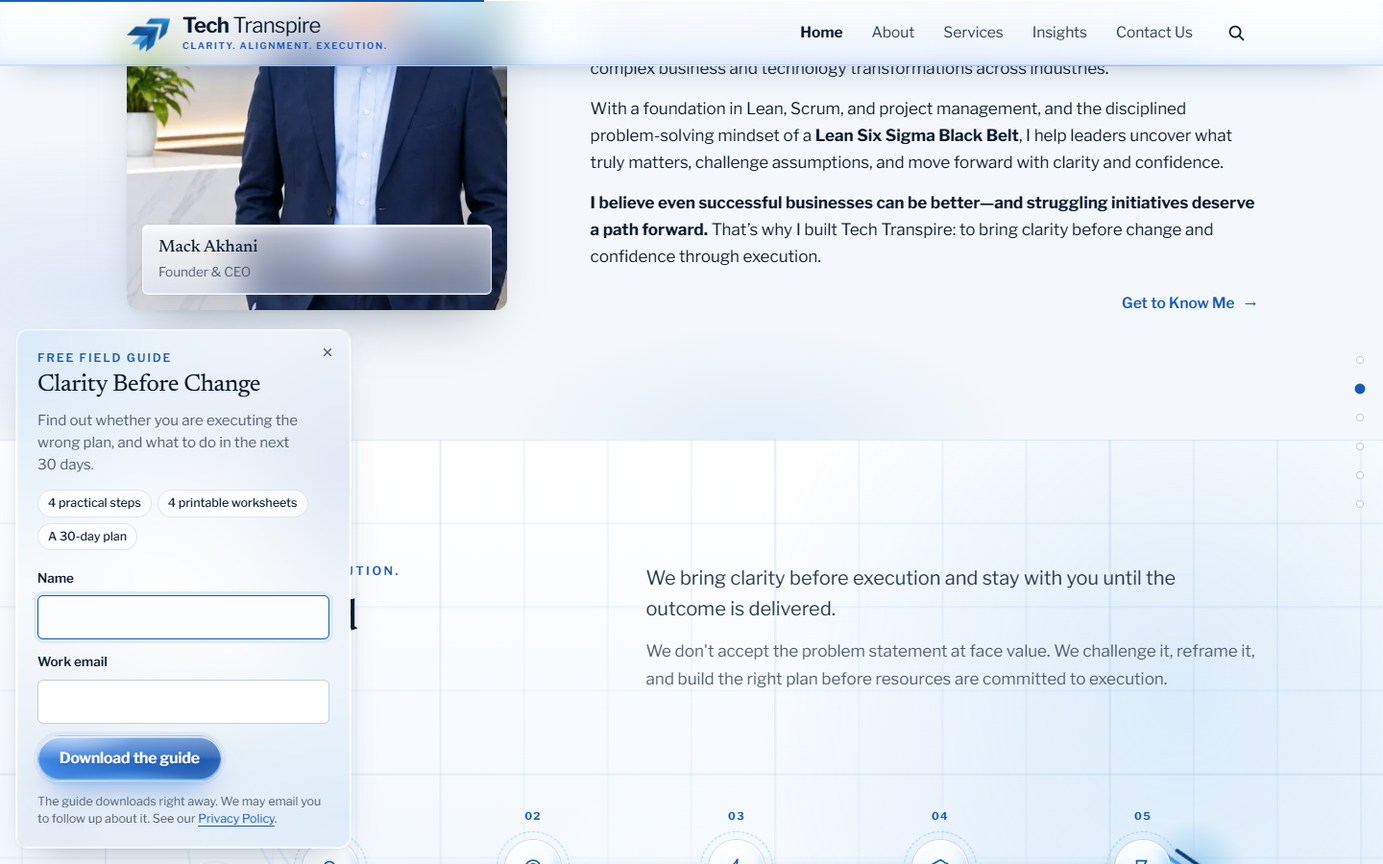
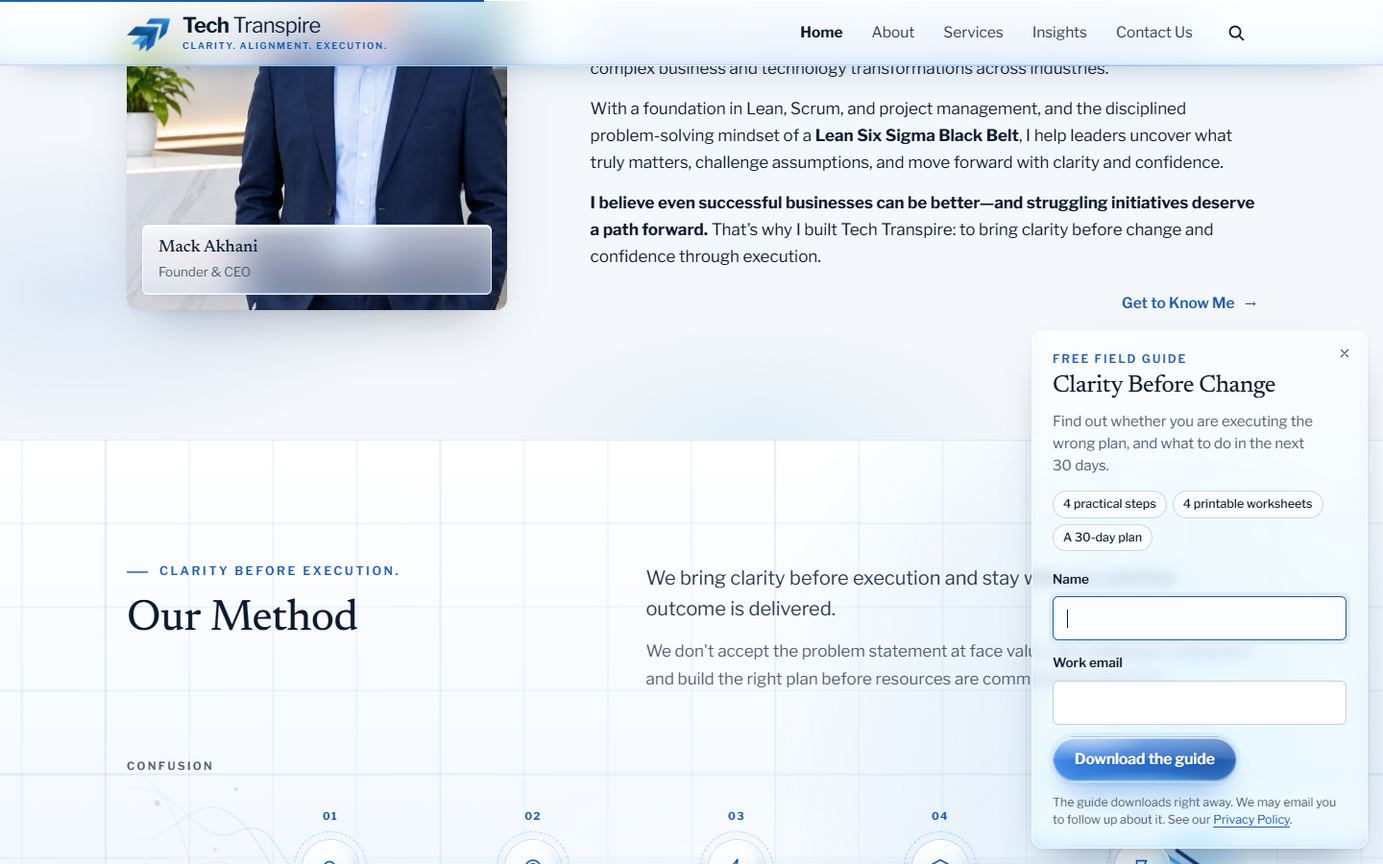
Guide card: transparent glass, bottom-right placement, attention nudge (D-56)
The WebGL engine can only refract a picture it draws, so the card read as
a solid panel. It is now real glass over the live page (backdrop blur,
SVG rim refraction in Chromium) whose tone adapts to light, photo and
navy backgrounds to keep text at WCAG AA. Moved to the chat-launcher
corner with a short shake-and-ring nudge that stops once noticed.

diff --git a/site/src/scripts/guide.ts b/site/src/scripts/guide.ts
@@ -1,9 +1,8 @@
 // Field-guide tab, card and lead form (D-56; markup and styles in components/GuidePrompt.astro).
 // Re-wired on every page load, including client-side navigations, and torn down before each swap.
 
-type Glass = { pause(): void; resume(): void; refresh(): void; destroy(): void };
-type Engine = { create(canvas: HTMLCanvasElement, options: object): Glass | null };
 type State = 'tab' | 'open' | 'done';
+type Tone = 'clear' | 'dense' | 'dark';
 
 const DONE_KEY = 'tt:guide:done';
 const DISMISSED_KEY = 'tt:guide:dismissed';
@@ -18,6 +17,12 @@ const MAX_SHOWS = 3;
 const SCROLL_SHARE = 0.3;
 const WAIT_MS = 20_000;
 const RETRY_MS = 1500;
+/** Attention nudges: the first soon after the tab arrives, then a few more, until the visitor reacts. */
+const NUDGE_FIRST_MS = 700;
+const NUDGE_GAP_MS = 8000;
+const NUDGES = 4;
+/** Width of the refracting rim, in CSS px. */
+const RIM = 16;
 // Loose on purpose: the browser's own email check runs too, and the Apps Script has the final say.
 const EMAIL = /^[^\s@]+@[^\s@]+\.[^\s@]{2,}$/;
 
@@ -28,6 +33,10 @@ const store = (area: () => Storage) => ({
 });
 const local = store(() => window.localStorage);
 const session = store(() => window.sessionStorage);
+
+// backdrop-filter: url() (SVG refraction of the live page) works in Chromium only; elsewhere the
+// card keeps the plain blurred glass. Only Chromium exposes navigator.userAgentData.
+const canRefract = () => !!(navigator as Navigator & { userAgentData?: { brands?: { brand: string }[] } }).userAgentData?.brands?.some((b) => b.brand === 'Chromium');
 
 let page: AbortController | null = null;
 document.addEventListener('astro:page-load', init);
@@ -58,85 +67,162 @@ function init() {
   let visible = false;
   let returnTo: HTMLElement | null = null;
   let timer = 0;
-  signal.addEventListener('abort', () => window.clearTimeout(timer));
+  signal.addEventListener('abort', () => {
+    window.clearTimeout(timer);
+    document.documentElement.classList.remove('guide-open');
+  });
 
-  // ---- Liquid glass, loaded the first time the card opens ----
-  let glass: Glass | null = null;
-  let glassAsked = false;
-  signal.addEventListener('abort', () => glass?.destroy());
-
-  /** What the glass refracts: a near-white field lit by the site's blues, from its own tokens. */
-  const backdrop = () => {
-    const css = getComputedStyle(document.documentElement);
-    const rgb = (token: string) => {
-      const hex = css.getPropertyValue(token).trim().replace('#', '');
-      return [0, 2, 4].map((i) => parseInt(hex.slice(i, i + 2), 16)).join(',');
-    };
-    const c = document.createElement('canvas');
-    c.width = 700;
-    c.height = 1000;
-    const g = c.getContext('2d');
-    if (!g) return null;
-    g.fillStyle = `rgb(${rgb('--mist')})`;
-    g.fillRect(0, 0, c.width, c.height);
-    const glow = (x: number, y: number, r: number, color: string, alpha: number) => {
-      const grad = g.createRadialGradient(x, y, 0, x, y, r);
-      grad.addColorStop(0, `rgba(${color},${alpha})`);
-      grad.addColorStop(1, `rgba(${color},0)`);
-      g.fillStyle = grad;
-      g.fillRect(0, 0, c.width, c.height);
-    };
-    glow(60, 40, 460, rgb('--sky'), 0.22);
-    glow(660, 260, 420, rgb('--blue'), 0.14);
-    glow(120, 960, 480, rgb('--blue'), 0.12);
-    glow(640, 940, 420, rgb('--sky'), 0.2);
-    glow(350, 500, 340, '255,255,255', 0.8);
-    return c;
+  // ---- Glass: tone from what is behind the card ----
+  const lum = (r: number, g: number, b: number) => {
+    const lin = (v: number) => { v /= 255; return v <= 0.03928 ? v / 12.92 : ((v + 0.055) / 1.055) ** 2.4; };
+    return 0.2126 * lin(r) + 0.7152 * lin(g) + 0.0722 * lin(b);
   };
-
-  const startGlass = async () => {
-    if (glassAsked) return;
-    glassAsked = true;
-    const canvas = card.querySelector<HTMLCanvasElement>('.gd-glass');
-    const bg = backdrop();
-    if (!canvas || !bg) return;
-    try {
-      const mod = (await import('../vendor/liquid-glass.js')) as { default?: Engine };
-      if (signal.aborted) return;
-      const engine = mod.default?.create ? mod.default : (globalThis as { LiquidGlass?: Engine }).LiquidGlass;
-      // The canvas needs a size before the engine can draw; CSS takes over once it binds the card.
-      canvas.style.display = 'block';
-      glass = engine?.create(canvas, {
-        background: bg,
-        backgroundColor: getComputedStyle(document.documentElement).getPropertyValue('--mist').trim(),
-        preset: 'frosted',
-        maxDpr: 1.5,
-        params: {
-          thickness: 18, refraction: 0.05, dispersion: 8, blur: 6, tint: [255, 255, 255, 0.35],
-          fresnelStrength: 28, glareStrength: 70, glareAngle: -45, shadowStrength: 0,
-        },
-        shapes: [{ element: card, radius: 'auto' }],
-        onError: () => {},
-      }) ?? null;
-      canvas.style.removeProperty('display');
-      if (!visible || card.dataset.state === 'tab') glass?.pause();
-    } catch {
-      canvas.style.removeProperty('display');
+  const rgba = /rgba?\(([\d.]+),\s*([\d.]+),\s*([\d.]+)(?:,\s*([\d.]+))?\)/g;
+  /** Luminance of an element's own painted background (colour or gradient), or null if see-through. */
+  const paint = (el: Element): number | null => {
+    const cs = getComputedStyle(el);
+    const solid = [...cs.backgroundColor.matchAll(rgba)][0];
+    if (solid && Number(solid[4] ?? 1) >= 0.5) return lum(+solid[1], +solid[2], +solid[3]);
+    if (cs.backgroundImage.includes('gradient')) {
+      const stops = [...cs.backgroundImage.matchAll(rgba)].filter((m) => Number(m[4] ?? 1) >= 0.5);
+      if (stops.length) return stops.reduce((sum, m) => sum + lum(+m[1], +m[2], +m[3]), 0) / stops.length;
     }
+    return null;
   };
+  const measureTone = (): Tone => {
+    const r = card.getBoundingClientRect();
+    const cols = 4;
+    const rows = Math.max(2, Math.round(r.height / 56));
+    let dark = 0, busy = 0, total = 0;
+    for (let i = 0; i < cols; i++) for (let j = 0; j < rows; j++) {
+      const x = r.left + 8 + ((r.width - 16) * i) / (cols - 1);
+      const y = r.top + 8 + ((r.height - 16) * j) / (rows - 1);
+      // Down through everything painted at this point (overlays included) to the first photo,
+      // canvas or opaque background; the page itself is white.
+      let L: number | null = null;
+      let media = false;
+      for (const el of document.elementsFromPoint(x, y)) {
+        if (card.contains(el)) continue;
+        if (el.matches('img, picture, video, canvas')) { media = true; break; }
+        if ((L = paint(el)) !== null) break;
+      }
+      total++;
+      if (media) { busy++; continue; }
+      L ??= 1;
+      if (L < 0.2) dark++;
+      else if (L < 0.6) busy++;
+    }
+    if (total && dark * 2 >= total) return 'dark';
+    return dark || busy ? 'dense' : 'clear';
+  };
+  let toneFrame = 0;
+  const updateTone = () => {
+    if (toneFrame || !visible) return;
+    toneFrame = requestAnimationFrame(() => { toneFrame = 0; if (visible) card.dataset.tone = measureTone(); });
+  };
+  window.addEventListener('scroll', updateTone, { passive: true, signal });
+  window.addEventListener('resize', updateTone, { signal });
+  signal.addEventListener('abort', () => cancelAnimationFrame(toneFrame));
 
+  // ---- Glass: refraction map drawn to the card's real shape (Chromium) ----
+  const filter = document.getElementById('gd-refract');
+  const mapImage = filter?.querySelector<SVGFEImageElement>('[data-guide-map]');
+  /** Displacement map: neutral inside, pulling the backdrop inward across the rim, like a lens edge. */
+  const drawMap = (w: number, h: number, radius: number) => {
+    const c = document.createElement('canvas');
+    c.width = w;
+    c.height = h;
+    const g = c.getContext('2d');
+    if (!g) return '';
+    const img = g.createImageData(w, h);
+    const d = img.data;
+    const r = Math.min(radius, w / 2, h / 2);
+    for (let y = 0; y < h; y++) {
+      for (let x = 0; x < w; x++) {
+        const px = x + 0.5 - w / 2;
+        const py = y + 0.5 - h / 2;
+        const qx = Math.abs(px) - (w / 2 - r);
+        const qy = Math.abs(py) - (h / 2 - r);
+        const ox = Math.max(qx, 0);
+        const oy = Math.max(qy, 0);
+        const out = Math.hypot(ox, oy);
+        const depth = r - out - Math.min(Math.max(qx, qy), 0);
+        let dx = 0, dy = 0;
+        if (depth > 0 && depth < RIM) {
+          let nx: number, ny: number;
+          if (out > 0) { nx = (ox / out) * Math.sign(px); ny = (oy / out) * Math.sign(py); }
+          else if (qx > qy) { nx = Math.sign(px); ny = 0; }
+          else { nx = 0; ny = Math.sign(py); }
+          const k = (1 - depth / RIM) ** 2;
+          dx = -nx * k;
+          dy = -ny * k;
+        }
+        const i = (y * w + x) * 4;
+        d[i] = 128 + dx * 127;
+        d[i + 1] = 128 + dy * 127;
+        d[i + 2] = 128;
+        d[i + 3] = 255;
+      }
+    }
+    g.putImageData(img, 0, 0);
+    return c.toDataURL();
+  };
+  if (filter && mapImage && canRefract()) {
+    let size = '';
+    const fit = () => {
+      const r = card.getBoundingClientRect();
+      const w = Math.round(r.width);
+      const h = Math.round(r.height);
+      if (!w || !h || `${w}x${h}` === size) return;
+      size = `${w}x${h}`;
+      const radius = parseFloat(getComputedStyle(card).borderTopLeftRadius) || 0;
+      for (const el of [filter, mapImage]) { el.setAttribute('width', String(w)); el.setAttribute('height', String(h)); }
+      mapImage.setAttribute('href', drawMap(w, h, radius));
+      card.classList.add('gd-refract');
+    };
+    const ro = new ResizeObserver(fit);
+    ro.observe(card);
+    signal.addEventListener('abort', () => ro.disconnect());
+  }
+
+  // ---- Getting noticed ----
+  let nudgeTimer = 0;
+  let nudgesLeft = 0;
+  const nudge = () => {
+    if (!nudgesLeft || !visible || card.dataset.state !== 'tab') return;
+    nudgesLeft--;
+    card.removeAttribute('data-nudge');
+    void card.offsetWidth; // restart the animation
+    card.setAttribute('data-nudge', '');
+    if (nudgesLeft) nudgeTimer = window.setTimeout(nudge, NUDGE_GAP_MS);
+  };
+  const startAttention = (count: number) => {
+    nudgesLeft = count;
+    card.dataset.attention = '';
+    window.clearTimeout(nudgeTimer);
+    nudgeTimer = window.setTimeout(nudge, NUDGE_FIRST_MS);
+  };
+  const stopAttention = () => {
+    nudgesLeft = 0;
+    window.clearTimeout(nudgeTimer);
+    delete card.dataset.attention;
+    card.removeAttribute('data-nudge');
+  };
+  card.addEventListener('animationend', (e) => { if (e.target === card && e.animationName.includes('gd-ring')) card.removeAttribute('data-nudge'); }, { signal });
+  // Any sign the visitor has seen it ends the nudging for this page.
+  card.addEventListener('pointerenter', stopAttention, { signal });
+  card.addEventListener('focusin', stopAttention, { signal });
+  signal.addEventListener('abort', () => window.clearTimeout(nudgeTimer));
+
+  // ---- States ----
   const setState = (state: State) => {
     card.dataset.state = state;
     const open = state !== 'tab';
     body.hidden = !open;
     tab.setAttribute('aria-expanded', String(open));
-    if (open) {
-      void startGlass();
-      glass?.resume();
-      glass?.refresh();
-    } else {
-      glass?.pause();
-    }
+    document.documentElement.classList.toggle('guide-open', open && visible);
+    if (open) stopAttention();
+    updateTone();
   };
 
   const show = (state: Exclude<State, 'done'>) => {
@@ -144,7 +230,8 @@ function init() {
     if (visible) return;
     visible = true;
     card.hidden = false;
-    if (card.dataset.state !== 'tab') glass?.resume();
+    document.documentElement.classList.toggle('guide-open', card.dataset.state !== 'tab');
+    card.dataset.tone = measureTone();
     // Next frame, so the entrance runs from the hidden state.
     requestAnimationFrame(() => requestAnimationFrame(() => card.classList.add('is-in')));
   };
@@ -152,9 +239,11 @@ function init() {
   const hide = (remember: boolean) => {
     if (!visible) return;
     visible = false;
+    stopAttention();
+    document.documentElement.classList.remove('guide-open');
     const hadFocus = card.contains(document.activeElement);
     card.classList.remove('is-in');
-    window.setTimeout(() => { if (!visible) { card.hidden = true; glass?.pause(); } }, reduce() ? 0 : 260);
+    window.setTimeout(() => { if (!visible) card.hidden = true; }, reduce() ? 0 : 260);
     if (remember) local.set(DISMISSED_KEY, String(Date.now()));
     const back = returnTo;
     returnTo = null;
@@ -262,8 +351,9 @@ function init() {
   const allowed = card.dataset.quiet === undefined && !num(DONE_KEY) && loadedAt - num(DISMISSED_KEY) > QUIET_MS;
   if (!allowed) return;
 
-  // Already offered earlier in this session: keep the tab, without counting another appearance.
-  if (session.get(SESSION_KEY)) { show('tab'); return; }
+  // Already offered earlier in this session: keep the tab without counting another appearance,
+  // and nudge once.
+  if (session.get(SESSION_KEY)) { show('tab'); startAttention(1); return; }
   if (shows().length >= MAX_SHOWS) return;
 
   let offered = false;
@@ -276,6 +366,7 @@ function init() {
     local.set(SHOWN_KEY, JSON.stringify([...shows(), Date.now()]));
     session.set(SESSION_KEY, '1');
     show('tab');
+    startAttention(NUDGES);
   };
   window.addEventListener('scroll', () => {
     const room = document.documentElement.scrollHeight - window.innerHeight;

diff --git a/docs/website-architecture/12-gaps-and-decisions.md b/docs/website-architecture/12-gaps-and-decisions.md
@@ -138,7 +138,7 @@ Drafts are in [`drafts/`](drafts/).
 | **D-53** | Motto in header and footer (2026-11-01) | ✅ The company | "Clarity. Alignment. Execution." sits under the header logo on every page and is the footer brand line (it replaces "Clarity Before Change. Confidence Through Execution." in the footer; that line remains the Home hero headline). Briefly tried the positioning line in the header; the company asked for the motto there too |
 | **D-54** | All ten insights published (2026-11-05) | ✅ Mack Akhani (relayed by Hemang Dwivedi) | Mack verified the engagement figures in the held articles. Every AC-xx claim in [19](19-article-claims-report.md) plus C-08, C-09 and C-14 is marked verified in `site/src/data/publication.json`, so TT-INS-001–005, 007, 009 and 010 publish alongside 006 and 008, and `/insights/case-studies` is built. E-09 is retired: the C-14 sentence "Twelve other programs subsequently replicated it." is restored in TT-INS-003 (closes D-24). Not covered: the Home "Selected Experience" figures (C-02–C-07) and the pre-founding attribution of 007–010 (C-18) remain pending |
 | **D-55** | Contact form spam protection: honeypot + time trap (2026-11-18) | ✅ Hemang Dwivedi | Mirrors the TLS site (trueleansolutions.com, "TLS CONTACT FORM" Apps Script Version 6). **Site:** honeypot `website` (off-screen, `tabindex=-1`, `autocomplete=off`, `aria-hidden`, label "Leave this field empty"); hidden `form_ts` = page-load ms; `submitted` = ISO time at send; a filled honeypot shows the normal success and sends nothing. `startedAt` is still sent until Apps Script Version 5 is live. **Server** (`apps-script/contact-form.gs` Version 5, mirrored by `spamCheck` in `site/src/server/inquiry.ts`): spam is checked first, in order honeypot → `form_ts_missing`/`form_ts_invalid` (10–15 digits) → `submitted_missing`/`submitted_invalid` → `too_fast` (`submitted − form_ts` < 3 s, both from the visitor's clock, so skew-safe) → `too_old` (server now − `form_ts` > 8 days). A rejected post gets the same `{ ok: true }`, sends no email, never writes "Website Inquiries" and is not counted by the 20-per-10-minute rate limit; it is logged to the **Rejected_TT** tab (not "Rejected", which the TLS script uses in the same spreadsheet). `LOG_REJECTED_IN_FULL = true` for two weeks (to about 2026-12-02), then false (time, reason, form only). Every sheet value goes through `safeCell_` (formula prefix, 45,000-character cap). Replaces the old timing check, which compared the server clock with the visitor's and skipped the check entirely when `startedAt` was missing. Known trade-off: visitors without JavaScript send no timestamps and are rejected (visible in Rejected_TT). Rollout: site first, then edit the existing deployment to a new version (never a new deployment, which changes the /exec URL) |
-| **D-56** | "Clarity Before Change" field-guide card (2026-11-24) | ✅ Hemang Dwivedi (build); ⏳ switch-on pending | A lead magnet ported in behavior (not look) from the TLS site's guide card. A one-line "Free field guide" tab bottom-left (after 30% scroll or 20 s; not on Contact, Privacy Policy, 404 or while typing; at most 3 times in 14 days; 14 days quiet after a dismissal; never after a download) opens a compact liquid-glass card: kicker, title linked to TT-INS-006, promise, three facts, Name + Work email. On submit the PDF downloads in the browser and the lead is posted fire-and-forget (URLSearchParams, honeypot, time trap) to `docs/apps-script/guide-leads.gs`, bound to "TLS LEADS From Website", tabs "TT Guide Leads" / "TT Guide Leads Rejected". No email is sent. **No consent checkbox** (Hemang): the line under the button is the disclosure, and the time it was shown is recorded; the Contact form keeps its checkbox. **Success-message rule:** "Your guide is downloading." is shown without server confirmation because it describes the local download, not the lead being saved; recorded as the second exception in CLAUDE.md. Copy is Hemang's (new content, not a change to existing content). Shipped **off**: `GUIDE_ENDPOINT` is empty and the designed PDF is not yet in the repo (the draft of 2026-11-23 has internal notes and is unformatted). **Before switch-on:** designed PDF in `site/public/guides/`; Mack's sign-off on the guide's "no obligation and no sales presentation" line and its illustrative example; a Privacy Policy clause for this collection; then deploy the script and set the URL ([guide-leads.md](../guide-leads.md)) |
+| **D-56** | "Clarity Before Change" field-guide card (2026-11-24) | ✅ Hemang Dwivedi (build); ⏳ switch-on pending | A lead magnet ported in behavior (not look) from the TLS site's guide card. A one-line "Free field guide" tab bottom-right, the usual chat-launcher spot (after 30% scroll or 20 s; not on Contact, Privacy Policy, 404 or while typing; at most 3 times in 14 days; 14 days quiet after a dismissal; never after a download) nudges with a short shake and soft ring (four times, 8 s apart, until hovered, focused or opened; a steady ring under reduced motion), and opens a compact card of transparent glass over the live page (backdrop blur, SVG rim refraction in Chromium; tone adapts to light, photo and navy backgrounds to keep AA): kicker, title linked to TT-INS-006, promise, three facts, Name + Work email. On submit the PDF downloads in the browser and the lead is posted fire-and-forget (URLSearchParams, honeypot, time trap) to `docs/apps-script/guide-leads.gs`, bound to "TLS LEADS From Website", tabs "TT Guide Leads" / "TT Guide Leads Rejected". No email is sent. **No consent checkbox** (Hemang): the line under the button is the disclosure, and the time it was shown is recorded; the Contact form keeps its checkbox. **Success-message rule:** "Your guide is downloading." is shown without server confirmation because it describes the local download, not the lead being saved; recorded as the second exception in CLAUDE.md. Copy is Hemang's (new content, not a change to existing content). **Revised 2026-11-24 (Hemang):** moved from bottom-left to bottom-right, attention nudge added, and the WebGL engine replaced by transparent CSS/SVG glass (the engine cannot refract the live page). The home section rail fades out while the card is open. Shipped **off**: `GUIDE_ENDPOINT` is empty and the designed PDF is not yet in the repo (the draft of 2026-11-23 has internal notes and is unformatted). **Before switch-on:** designed PDF in `site/public/guides/`; Mack's sign-off on the guide's "no obligation and no sales presentation" line and its illustrative example; a Privacy Policy clause for this collection; then deploy the script and set the URL ([guide-leads.md](../guide-leads.md)) |
 | D-23 | Keep `/about-us`, `/contact-us` | ✅ **Approved** | — |
 | D-24 | TT-INS-003 while C-14 is pending | ✅ **Approved** (2026-10-29) | Publish without the C-14 sentence once the rest of its content is approved (E-09); restore it on verification |
 | **D-25** | Articles containing unverified claims | ✅ **Revised 2026-10-29 (company correction)** | "Publish as authored" does **not** override the no-unverified-claims rule. Three states: preserved source (archive, untouched) · internal review (review build) · approved for publication (public build). An article publishes only when every claim listed for it in [19](19-article-claims-report.md) is verified or covered by an **approved** editorial omission; otherwise it is **held**. Today 8 of 10 are held (TT-INS-001–005, 007, 009, 010); TT-INS-006 and 008 publish. Same standard for bios, results, Healthcare, SEO metadata. Implemented in `site/src/data/publication.json` |

diff --git a/docs/guide-leads.md b/docs/guide-leads.md
@@ -14,18 +14,38 @@ The behavior is ported from the True Lean Solutions site (`True-Lean-Solutions/T
 | Tab, card and form | `site/src/components/GuidePrompt.astro` | Markup and styles. Rendered by `site/src/layouts/Base.astro` only while the guide is enabled |
 | Behavior | `site/src/scripts/guide.ts` | When the tab appears, the form, the download, the liquid glass. Re-wired on every page, including client-side navigations |
 | Footer link | `site/src/components/Footer.astro` | "Free field guide" in the legal bar opens the card on any page |
-| Glass engine | `site/src/vendor/liquid-glass.js` (v1.1.0, MIT, see `liquid-glass.LICENSE.txt`) | Draws the open card. Loaded only the first time the card opens |
+| Glass | `GuidePrompt.astro` (CSS and an SVG filter) and `scripts/guide.ts` | Transparent glass over the live page. See "The glass" below |
 | Script | `docs/apps-script/guide-leads.gs` | Checks for spam and writes the lead to the sheet. This file is the copy of record |
 
 ## What the visitor sees
 
-- A one-line tab at the bottom left: a document icon, "Free field guide", an arrow and a close button. It is not a pop-up: no overlay, no backdrop, no focus steal, no scroll lock.
+- A one-line tab at the bottom right, where sites usually put a chat launcher (Tech Transpire has no bot): a document icon, "Free field guide", an arrow and a close button. It is not a pop-up: no overlay, no backdrop, no focus steal, no scroll lock.
+- To be noticed, the tab gives a short shake with a soft blue ring when it arrives, then again every 8 seconds, four times in all. It stops for good on that page as soon as the visitor hovers over it, focuses it or opens it. With reduced motion there is no shake, just a steady ring. The × hides it, which also satisfies WCAG 2.2.2.
+- On the home page the section rail shares the right edge; it fades out while the card is open, so the two never overlap.
 - The tab appears after 30% of the page is scrolled or 20 seconds, whichever comes first. Not on Contact, Privacy Policy or the 404 page, and not while the visitor is typing in a field.
 - At most three automatic appearances in 14 days. Once the tab has appeared, it stays on the following pages of that browser session without counting again. Closing it hides it for 14 days. After a download it never appears again on that browser.
 - The tab opens a compact card: kicker, the title (linking to *You Don't Have an Execution Problem. You're Executing the Wrong Plan.*), the promise, three fact chips, then Name, Work email and "Download the guide".
 - On submit the PDF downloads at once and the card reads "Your guide is downloading." with a plain link to the same file.
 - Escape folds a card opened from the tab back to the tab, or closes a card opened from the footer and returns focus to the footer link.
 - State lives in `localStorage` (`tt:guide:done`, `tt:guide:dismissed`, `tt:guide:shown`) and `sessionStorage` (`tt:guide:on`). With storage blocked, every visit behaves as the first.
+
+## The glass
+
+The card is real glass over the live page: what is behind it shows through, blurred and colour-boosted (`backdrop-filter: blur(18px) saturate(180%)`), with a specular sheen across the top-left and a light rim.
+
+- **Chrome and Edge** also bend the page along the card's rim, with a slight colour split, like the edge of a lens. An SVG displacement filter does this (`#gd-refract` in `GuidePrompt.astro`). `scripts/guide.ts` draws its map to the card's exact size and corner radius, and redraws it whenever the card changes shape.
+- **Safari and Firefox** don't support SVG filters in `backdrop-filter`, so they get the same transparent glass without the bent edge.
+- The site's WebGL engine (`site/src/vendor/liquid-glass.js`) is not used here. It can only refract a picture it draws itself, not the live page, so it made the card look like a solid pale panel.
+
+Because the page shows through, the glass changes tone with what is behind it so text keeps WCAG AA. `scripts/guide.ts` samples the page under the card on scroll and resize:
+
+| Tone | When | Glass |
+|---|---|---|
+| `clear` | A light part of the page | 50% white |
+| `dense` | Photos, canvases, or light and dark mixed | 84% white |
+| `dark` | Mostly navy (Results band, CTA band, footer) | 80% navy, with white text |
+
+Contrast was measured from rendered pixels over each case: light sections, the navy band, half over the navy band, the footer, and the advisor portraits. The lowest result was 4.69:1, for blue text over the darkest part of a portrait.
 
 ## Switching it on
 

diff --git a/CLAUDE.md b/CLAUDE.md
@@ -37,9 +37,9 @@ Deploying the Apps Script: Deploy → Manage deployments → edit (pencil) → V
 
 ## Field-guide card contract (D-56)
 Operating manual: [docs/guide-leads.md](docs/guide-leads.md). One guide, set in `site/src/data/guide.ts`; endpoint `GUIDE_ENDPOINT` in `site/src/lib/site.ts`. **Empty endpoint (or missing PDF at `site/public/guides/`) means off:** no tab, no card, no footer link, no script on any page.
-- Tab bottom-left, opens a compact card (`GuidePrompt.astro`, behavior in `scripts/guide.ts`). Not a modal: no overlay, no focus steal, no scroll lock. Never overlaps the header, reading progress or section rail.
+- Tab bottom-right (chat-launcher position; there is no bot), with a short shake-and-ring nudge (4 times, 8 s apart, stops on hover/focus/open; steady ring under reduced motion). Opens a compact card (`GuidePrompt.astro`, behavior in `scripts/guide.ts`). Not a modal: no overlay, no focus steal, no scroll lock. Never overlaps the header, reading progress or section rail.
 - Offers itself after 30% scroll or 20 s; not on /contact-us, /privacy-policy, 404, or while a field has focus; at most 3 times in 14 days; hidden 14 days after a dismissal; never again after a download. All storage access in try/catch.
 - Submit: the PDF downloads inside the submit handler (same-site file), then a fire-and-forget `POST` of `URLSearchParams` (never JSON) with `form=tt-guide`, `guide`, `source=popup`, `page`, `name`, `email`, `website` (honeypot, empty), `form_ts`, `notice_shown`, `submitted`. A filled honeypot shows the confirmation and sends and downloads nothing. No email is sent to the visitor.
 - No consent checkbox (Hemang's decision): the notice line under the button is the disclosure. The Contact form keeps its checkbox.
 - Server: `docs/apps-script/guide-leads.gs`, bound to the "TLS LEADS From Website" spreadsheet; tabs "TT Guide Leads" and "TT Guide Leads Rejected" only. Always answers `ok`.
-- Glass: the open card is drawn by `site/src/vendor/liquid-glass.js` (v1.1.0, never edit by hand), loaded by dynamic import on first open, paused while hidden, `maxDpr` 1.5, over a procedural backdrop built from the site's tokens. Without WebGL2 the CSS glass stays; text keeps WCAG AA on both.
+- Glass: transparent over the live page (`backdrop-filter` blur + saturate), plus SVG rim refraction (`#gd-refract`) in Chromium only. Not the WebGL engine: it cannot refract live DOM. Tone (`clear` / `dense` / `dark`) follows what is behind the card so text keeps WCAG AA; re-measure contrast if the fills or text colours change. The home section rail fades out while the card is open.
